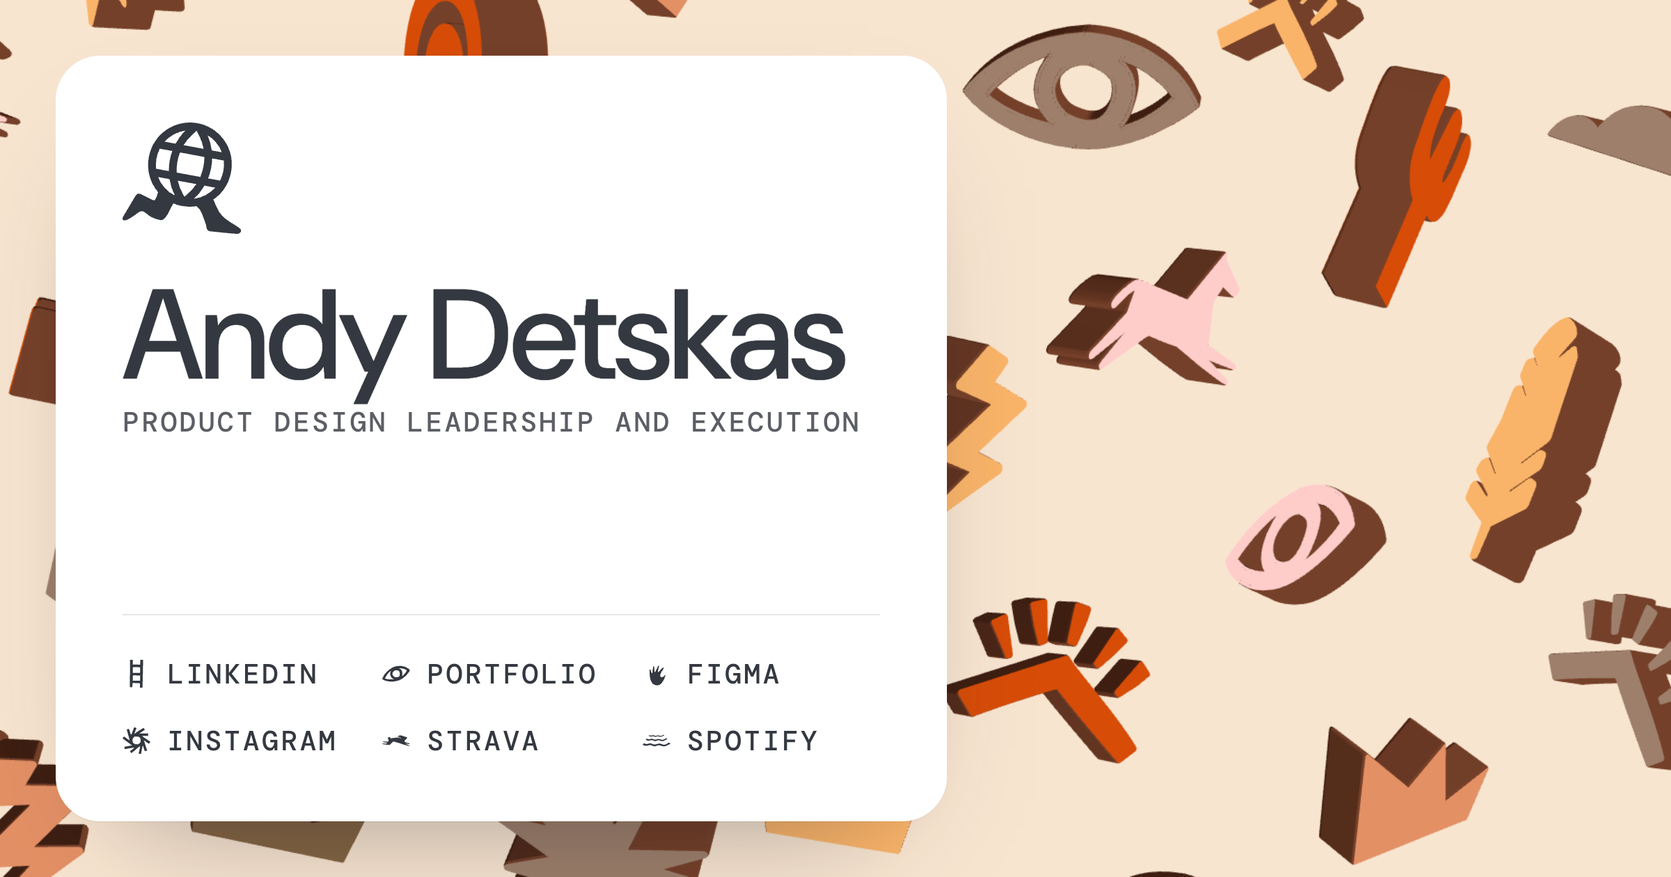
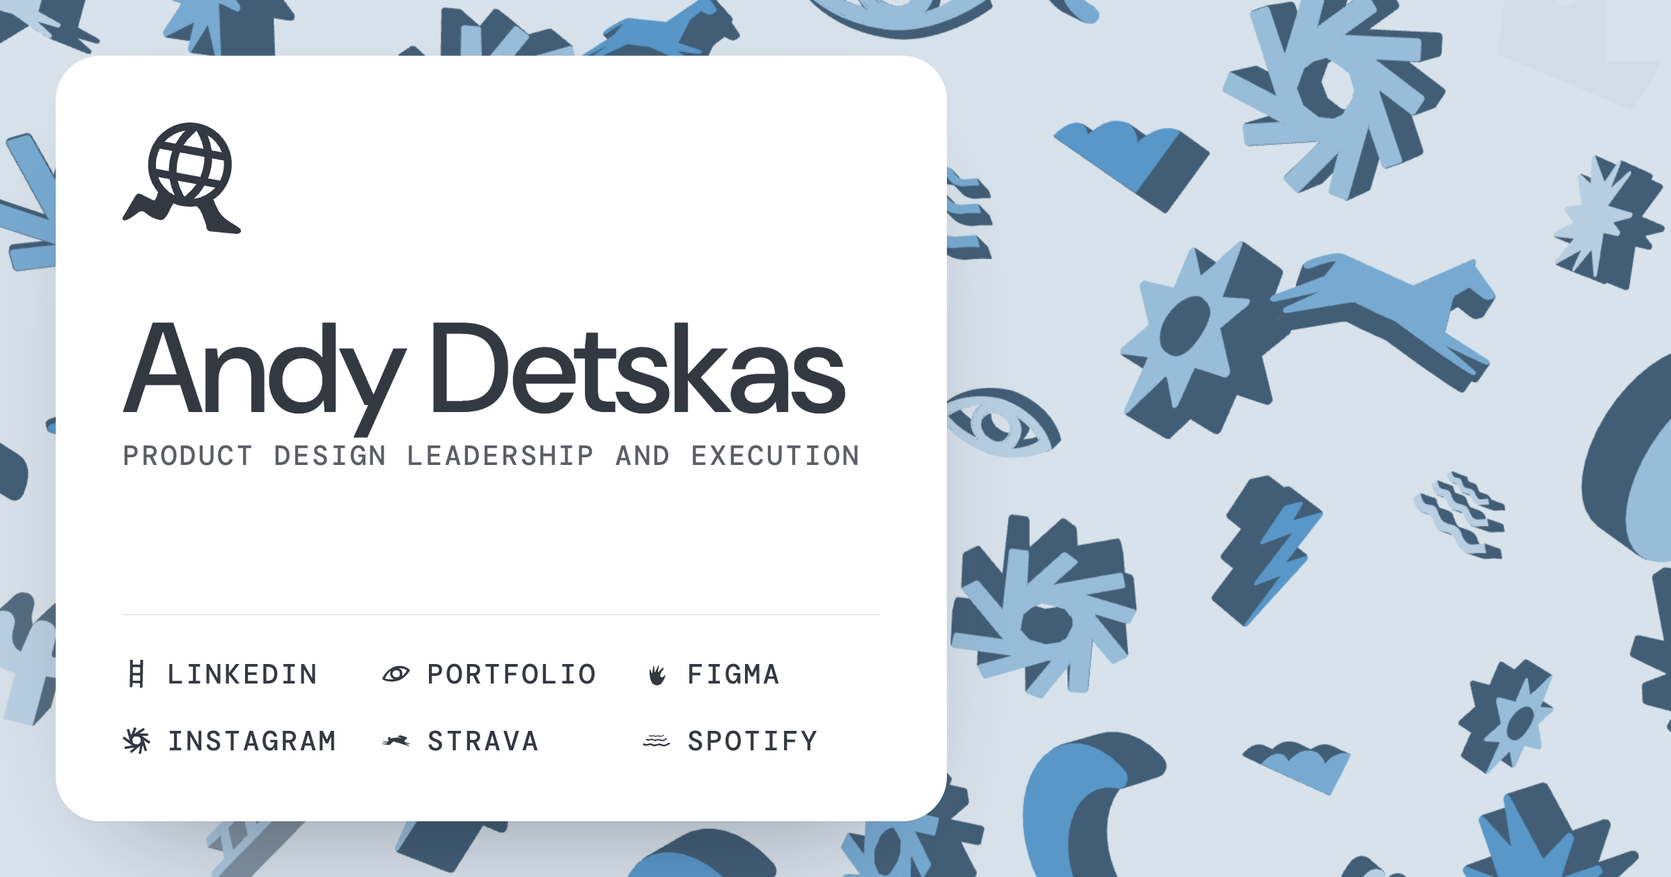
Scene: Glyphs · Indigo default, Indigo Night dark mode, edge fade, readable faces
- Default scene is now Glyphs · Indigo (Taos Indigo ramp on Indigo 200, checker,
  slow drift, flat lighting, 13 icons). The call page background matches.
- Dark mode uses the new Indigo Night palette (same faces on Black 300).
- The glyph wrap is centered on the visible area, so the seam stays off screen,
  and glyphs fade into the background near it (uFade/uBg), so nothing pops in.
- Each glyph's face stays within 60° of the camera (eased past 43°), so icons
  never turn edge-on or show their mirrored back.
- Share image re-captured; README perf baseline and notes updated.

diff --git a/src/lib/shape-field/families/glyphs.ts b/src/lib/shape-field/families/glyphs.ts
@@ -13,6 +13,9 @@ const H = 4.2; // half-height of the field
 const W = H * 1.9; // half-width (covers 16:10 plus the composition shift)
 const MAX_FACES = 8;
 const SLOTS = 840; // divisible by 1–8, so slot % colors.length stays evenly spread
+/** Radians. How far a glyph's face may turn from the viewer: freely to the knee, easing to the max. */
+const FACE_KNEE = 0.75; // ~43°
+const FACE_MAX = 1.05; // ~60°
 
 export const GLYPH_NAMES = iconNames;
 
@@ -142,8 +145,9 @@ export const glyphs: Family = {
       return mesh;
     };
 
-    // A glyph that drifts above `top` drops back by `span`.
-    let top = H + 1.2;
+    // The field is periodic in y: a glyph that drifts past the top of the wrap window drops back
+    // by `span`. The window is centered on the middle of the view (view(), from the engine), not on
+    // the origin, since the composition shift and the roll move the view off it.
     let span = 2 * (H + 1.2);
 
     if (layout === 'scatter') {
@@ -175,7 +179,6 @@ export const glyphs: Family = {
       const checker = layout === 'checker';
       const { sx, sy, cols, rows } = lattice(layout, count);
       span = rows * sy;
-      top = span / 2;
       const nColors = Math.min(pal.colors.length, MAX_FACES);
       const taken = new Map<string, { name: string; color: number }>();
       const key = (c: number, r: number) => `${c},${((r % rows) + rows) % rows}`;
@@ -218,12 +221,44 @@ export const glyphs: Family = {
     }
     assign();
 
+    // Wrap window [lo, lo + span] and the fade at its edges: a glyph fades into the background
+    // over the last `band` before the seam and fades back in after it, so none pops in or out
+    // where the seam crosses a corner of the view (the bottom left, at a 30° roll).
+    const band = Math.min(1.2, Math.max(0.8, span * 0.1));
+    let lo = -span / 2;
+    const wrap = (y: number) => lo + ((((y - lo) % span) + span) % span);
+    const setWindow = (center: number) => {
+      lo = center - span / 2;
+      shared.uFade.value.set(lo, lo + span, band);
+    };
+    setWindow(0);
+
     // Rotation is a pure function of time; the drift and the grow-in are integrated in update().
+    // Readability: the tumble can swing a glyph ±90° and more, and a glyph near the edge of the view
+    // is already seen up to ~30° off-axis, so some turned edge-on (only the side wall showing) or
+    // showed their mirrored back. Measured against the real line of sight to the camera, a face turns
+    // freely up to FACE_KNEE, then eases toward FACE_MAX and never past it.
+    const eye = new THREE.Vector3(0, 0, 10);
+    const normal = new THREE.Vector3();
+    const toEye = new THREE.Vector3();
+    const axis = new THREE.Vector3();
+    const turn = new THREE.Quaternion();
+    const ease = (a: number) => (a <= FACE_KNEE ? a : FACE_KNEE + (FACE_MAX - FACE_KNEE) * Math.tanh((a - FACE_KNEE) / (FACE_MAX - FACE_KNEE)));
     const pose = (it: (typeof items)[number], t: number, tumble: number) => {
       const m = it.mesh;
-      m.rotation.y = it.baseRot * tumble + Math.sin(t * it.spin + it.phase) * 0.9 * tumble;
-      m.rotation.x = Math.sin(t * it.wob + it.phase) * 0.35 * tumble;
-      m.rotation.z = Math.sin(t * 0.13 + it.phase) * 0.12 * tumble;
+      m.rotation.set(
+        Math.sin(t * it.wob + it.phase) * 0.35 * tumble,
+        it.baseRot * tumble + Math.sin(t * it.spin + it.phase) * 0.9 * tumble,
+        Math.sin(t * 0.13 + it.phase) * 0.12 * tumble,
+      );
+      normal.set(0, 0, 1).applyQuaternion(m.quaternion);
+      toEye.subVectors(eye, m.position).normalize();
+      const a = normal.angleTo(toEye);
+      if (a <= FACE_KNEE) return;
+      axis.crossVectors(normal, toEye);
+      if (axis.lengthSq() < 1e-10) axis.set(0, 1, 0); // facing straight away: turn about the vertical
+      turn.setFromAxisAngle(axis.normalize(), a - ease(a));
+      m.quaternion.premultiply(turn);
     };
 
     return {
@@ -241,9 +276,8 @@ export const glyphs: Family = {
           // Grow in after a stagger; when the scene is paused (speed 0), size changes apply at once.
           if (dt === 0) m.scale.setScalar(goal);
           else if (t > it.delay) m.scale.setScalar(m.scale.x + (goal - m.scale.x) * k);
+          m.position.y = wrap(m.position.y + dt * it.rise);
           pose(it, t, tumble);
-          m.position.y += dt * it.rise;
-          if (m.position.y > top) m.position.y -= span;
         }
         const c = live.contrast ?? 0.35;
         if (c !== contrast) {
@@ -261,10 +295,16 @@ export const glyphs: Family = {
           const m = it.mesh;
           const goal = it.size * sizeMul;
           m.scale.setScalar(t > it.delay ? goal - (goal - 0.001) * Math.exp(-3.5 * (t - it.delay)) : 0.001);
-          const y = it.y0 + t * it.rise;
-          m.position.y = y > top ? y - span * Math.ceil((y - top) / span) : y;
+          m.position.y = wrap(it.y0 + t * it.rise);
           pose(it, t, tumble);
         }
+      },
+      view(_x, y, camera) {
+        if (camera) eye.copy(camera);
+        if (Math.abs(y - (lo + span / 2)) < 1e-4) return;
+        setWindow(y);
+        // Re-wrap now, so a resize doesn't leave a frame with the old window.
+        for (const it of items) it.mesh.position.y = wrap(it.mesh.position.y);
       },
       setPalette(p) {
         pal = p;

diff --git a/src/lib/presets.ts b/src/lib/presets.ts
@@ -179,46 +179,44 @@ export const presets: Preset[] = [
     sceneAccent: false,
   },
   // ── Glyphs: extruded Taos icons. colors = face colors (any number), extrusion = side walls
-  // Andy's pick (2026-11-05, second round): Adobe palette, loose checker layout, larger glyphs,
-  // no depth spread, 16 of the 21 icons.
+  // Andy's pick (third round): the Indigo palette (Taos Indigo 600 → 300 faces, dark Indigo 300
+  // walls, on Indigo 200), checker layout, slow drift, flat lighting (contrast 0), 13 of the 21 icons.
+  // Before this: Adobe palette, speed 1, contrast 0.74, 16 icons (git history has the exact values).
   {
     id: 'glyphs-color',
-    name: 'Glyphs · Adobe',
+    name: 'Glyphs · Indigo',
     family: 'glyphs',
     tone: 'color',
-    paletteId: 'adobe',
+    paletteId: 'indigo',
     palette: {
-      bg: '#F8E5D0',
-      extrusion: '#754029',
-      colors: ['#E49065', '#D74C07', '#9D7F6B', '#836442', '#FECDCA', '#FAB469'],
+      bg: L('indigo', '200'),
+      extrusion: D('indigo', '300'),
+      colors: [L('indigo', '600'), L('indigo', '500'), L('indigo', '400'), L('indigo', '300')],
     },
     params: {
-      density: 0.63,
-      tilt: 20,
-      light: 40,
-      speed: 1,
-      scale: 1.34,
-      seed: 5,
-      tint: 0.85,
-      size: 1.44,
-      depth: 1.45,
+      density: 0.65,
+      tilt: 30,
+      light: 100,
+      speed: 0.35,
+      scale: 1.13,
+      seed: 156,
+      tint: 0,
+      size: 1.29,
+      depth: 1.7,
       spread: 0,
-      tumble: 1,
-      contrast: 0.74,
+      tumble: 1.19,
+      contrast: 0,
       layout: 'checker',
-      jitter: 0.79,
+      jitter: 0.5,
     },
     card: { mode: 'light', radius: 32 },
     sceneAccent: true,
     glyphs: [
-      'alpenglow',
       'cactus',
       'cloud',
       'compass',
       'crown',
       'eye',
-      'feather',
-      'fox',
       'hank',
       'ladder',
       'lightning',
@@ -281,8 +279,7 @@ export const glyphPalettes: NamedPalette[] = [
   { id: 'earth', name: 'Earth', kind: 'earth', mode: 'light', palette: { bg: L('saddle', '300'), extrusion: D('fire', '200'), colors: [L('saddle', '600'), L('fire', '500'), D('alpenglow', '400'), D('fire', '300'), D('verde', '400'), D('sun', '500')] } },
   { id: 'adobe', name: 'Adobe', kind: 'earth', mode: 'light', palette: { bg: L('alpenglow', '200'), extrusion: D('fire', '300'), colors: [L('fire', '400'), L('fire', '600'), L('saddle', '600'), D('alpenglow', '300'), L('coral', '600'), L('alpenglow', '500')] } },
   { id: 'sage', name: 'Sage & Clay', kind: 'earth', mode: 'light', palette: { bg: L('saddle', '200'), extrusion: D('verde', '200'), colors: [L('verde', '500'), D('verde', '400'), L('saddle', '500'), L('fire', '400'), D('sun', '400')] } },
-  // The site's dark theme (Display settings → Theme): Adobe's warm glyphs on True Black, behind the
-  // Style Guide's dark card (Shadow 600).
+  // The light scene's dark counterpart, from Adobe's days as the default; Indigo Night replaced it.
   { id: 'adobe-night', name: 'Adobe Night', kind: 'earth', mode: 'dark', palette: { bg: D('black', '300'), extrusion: D('black', '500'), colors: [D('fire', '600'), D('alpenglow', '600'), D('alpenglow', '400'), D('fire', '400'), D('coral', '500'), D('saddle', '600')] } },
   { id: 'mesa', name: 'Mesa Night', kind: 'earth', mode: 'light', palette: { bg: D('fire', '200'), extrusion: L('black', '600'), colors: [L('sun', '400'), L('alpenglow', '600'), L('fire', '500'), L('saddle', '400'), L('verde', '300')] } },
   // Mono
@@ -291,6 +288,10 @@ export const glyphPalettes: NamedPalette[] = [
   { id: 'ink', name: 'Ink', kind: 'mono', mode: 'dark', palette: { bg: D('black', '300'), extrusion: D('black', '500'), colors: [L('saddle', '200'), L('shadow', '300'), L('shadow', '500')] } },
   { id: 'fire', name: 'Fire', kind: 'mono', mode: 'light', palette: { bg: L('fire', '200'), extrusion: D('fire', '300'), colors: [L('fire', '600'), L('fire', '500'), L('fire', '400'), L('fire', '300')] } },
   { id: 'indigo', name: 'Indigo', kind: 'mono', mode: 'light', palette: { bg: L('indigo', '200'), extrusion: D('indigo', '300'), colors: [L('indigo', '600'), L('indigo', '500'), L('indigo', '400'), L('indigo', '300')] } },
+  // The site's dark theme (Display settings → Theme), the Indigo scene at night: the same four
+  // faces, on the dark page color (True Black 300) with near-black walls, behind the Style Guide's
+  // dark card (Shadow 600).
+  { id: 'indigo-night', name: 'Indigo Night', kind: 'mono', mode: 'dark', palette: { bg: D('black', '300'), extrusion: D('black', '500'), colors: [L('indigo', '600'), L('indigo', '500'), L('indigo', '400'), L('indigo', '300')] } },
   { id: 'verde', name: 'Verde', kind: 'mono', mode: 'light', palette: { bg: L('verde', '200'), extrusion: D('verde', '200'), colors: [L('verde', '600'), L('verde', '500'), L('verde', '400'), L('verde', '300')] } },
   { id: 'lavender', name: 'Lavender', kind: 'mono', mode: 'light', palette: { bg: L('lavender', '200'), extrusion: D('lavender', '300'), colors: [L('lavender', '600'), L('lavender', '500'), L('lavender', '400'), L('lavender', '300')] } },
 ];

diff --git a/src/lib/shape-field/facet.ts b/src/lib/shape-field/facet.ts
@@ -20,19 +20,28 @@ export interface FacetOptions {
 
 const vertexShader = /* glsl */ `
   attribute float aSet;
+  uniform vec3 uFade;
   varying vec3 vNWorld;
   varying vec3 vNLocal;
   varying float vSet;
+  varying float vFade;
   void main() {
     vec4 p = vec4(position, 1.0);
     vec3 n = normal;
+    vec4 center = vec4(0.0, 0.0, 0.0, 1.0);
     #ifdef USE_INSTANCING
       p = instanceMatrix * p;
       n = mat3(instanceMatrix) * n;
+      center = instanceMatrix * center;
     #endif
     vNLocal = normal;
     vNWorld = normalize(mat3(modelMatrix) * n);
     vSet = aSet;
+    // Edge fade, by the form's center so the whole form fades as one.
+    float cy = (modelMatrix * center).y;
+    vFade = uFade.z > 0.0
+      ? smoothstep(uFade.x, uFade.x + uFade.z, cy) * (1.0 - smoothstep(uFade.y - uFade.z, uFade.y, cy))
+      : 1.0;
     gl_Position = projectionMatrix * modelViewMatrix * p;
   }
 `;
@@ -46,9 +55,11 @@ const fragmentShader = /* glsl */ `
   uniform vec3 uAccent;
   uniform float uAccentAmt;
   uniform float uPrimaryLocal;
+  uniform vec3 uBg;
   varying vec3 vNWorld;
   varying vec3 vNLocal;
   varying float vSet;
+  varying float vFade;
   void main() {
     vec3 nW = normalize(vNWorld);
     float primary = uPrimaryLocal > 0.5 ? abs(normalize(vNLocal).z) : nW.y;
@@ -61,6 +72,7 @@ const fragmentShader = /* glsl */ `
     vec3 side = mix(uShade, uLit, smoothstep(-0.3, 0.3, s));
 
     vec3 col = mix(side, top, smoothstep(0.55, 0.72, primary));
+    col = mix(uBg, col, vFade);
     gl_FragColor = vec4(col, 1.0);
     #include <colorspace_fragment>
   }
@@ -90,6 +102,8 @@ export class Facet {
         uLightDir: shared.uLightDir,
         uAccent: shared.uAccent,
         uAccentAmt: shared.uAccentAmt,
+        uBg: shared.uBg,
+        uFade: shared.uFade,
       },
     });
     // Meshes without an aSet attribute read 0 (no alternate color).

diff --git a/src/lib/shape-field/index.ts b/src/lib/shape-field/index.ts
@@ -77,6 +77,8 @@ export function createShapeField(canvas: HTMLCanvasElement, initial: Preset, opt
     uAccent: { value: accent.value },
     uAccentAmt: { value: 0 },
     uTime: { value: 0 },
+    uBg: { value: bg.value },
+    uFade: { value: new THREE.Vector3() },
   };
   let accentTarget = 0;
 
@@ -109,8 +111,10 @@ export function createShapeField(canvas: HTMLCanvasElement, initial: Preset, opt
       inst.dispose();
     }
     family = families[preset.family];
+    shared.uFade.value.set(0, 0, 0); // off unless the new family turns it on
     inst = family.build({ params: preset.params, palette: preset.palette, rng: mulberry32(preset.params.seed), shared, glyphs: preset.glyphs });
     scene.add(inst.root);
+    layoutCamera(); // tells the new field where the view is before its first update
     t = 0;
     if (reduced) {
       // Static frame: jump straight to a settled state.
@@ -154,6 +158,11 @@ export function createShapeField(canvas: HTMLCanvasElement, initial: Preset, opt
     camera.rotateZ(tilt);
     camera.setViewOffset(width, height, -focusX * width, focusY * height, width, height);
     camera.updateProjectionMatrix();
+    // The middle of what's on screen, in world space: the view offset moves it off the origin,
+    // and the roll turns that offset. A wrapping field centers its wrap here.
+    const vx = -2 * focusX * halfH * aspect;
+    const vy = -2 * focusY * halfH;
+    inst.view?.(vx * Math.cos(tilt) - vy * Math.sin(tilt), vx * Math.sin(tilt) + vy * Math.cos(tilt), camera.position);
   }
 
   function resize() {

diff --git a/src/lib/shape-field/types.ts b/src/lib/shape-field/types.ts
@@ -8,6 +8,13 @@ export interface SharedUniforms {
   uAccent: THREE.IUniform<THREE.Color>;
   uAccentAmt: THREE.IUniform<number>;
   uTime: THREE.IUniform<number>;
+  /** The scene background (the same tweened color), so forms can fade into it. */
+  uBg: THREE.IUniform<THREE.Color>;
+  /**
+   * Edge fade in world y: (bottom, top, band). A form whose center is within `band` of either
+   * edge mixes toward uBg, reaching it at the edge. band 0 = off. Set by families that wrap.
+   */
+  uFade: THREE.IUniform<THREE.Vector3>;
 }
 
 export interface FamilyContext {
@@ -32,6 +39,13 @@ export interface FamilyInstance {
   update(t: number, dt: number, dtReal: number, params: SceneParams): void;
   /** Optional: jump straight to scene time t (as if update() had run from 0). Without it the engine steps there. */
   seek?(t: number, params: SceneParams): void;
+  /**
+   * Optional: where the middle of the visible area sits in world space (x, y at z = 0), and where
+   * the camera is. The middle moves with the composition shift (setFocus), the roll and the aspect.
+   * A field that wraps centers its wrap here, so the seam stays off screen; glyphs use the camera
+   * to keep their faces readable.
+   */
+  view?(x: number, y: number, camera?: THREE.Vector3): void;
   setPalette(palette: ScenePalette): void;
   dispose(): void;
 }

diff --git a/src/lib/display-settings.ts b/src/lib/display-settings.ts
@@ -8,8 +8,8 @@ export const DISPLAY_KEY = 'ad_display';
 
 import { defaultPreset, glyphPalettes } from './presets';
 
-/** The scene in dark mode: Adobe Night (presets.ts), the light Adobe scene's counterpart. */
-export const DARK_PALETTE = glyphPalettes.find((p) => p.id === 'adobe-night')!.palette;
+/** The scene in dark mode: Indigo Night (presets.ts), the light Indigo scene's counterpart. */
+export const DARK_PALETTE = glyphPalettes.find((p) => p.id === 'indigo-night')!.palette;
 export const LIGHT_PALETTE = defaultPreset.palette;
 
 export interface DisplaySettings {

diff --git a/README.md b/README.md
@@ -41,10 +41,10 @@ Pages talk to the scene through `bento:preset` (switch concept). `bento:accent` 
 
 **Start-up.** Three.js loads after first paint. `prepareShapeField(preset)` then extrudes the glyphs one per task, and the engine compiles its shaders with `compileAsync` before the first frame. That keeps the main thread free for taps while the scene loads.
 
-Baseline (default checker preset):
-- Mid-range phone (4x CPU): the longest task is about 55 ms (it was 285 ms before the split). The scene appears about 2.1 s after opening on slow 4G.
-- Low-end phone (6x CPU): the longest task is about 85 ms (was 427 ms).
-- While it runs: about 0.4 ms of JS per frame, a steady 60 fps, 12 draw calls and 66k triangles per frame on a phone. The camera only sees about a dozen of the ~90 glyphs, and the rest are culled.
+Baseline (default preset, Glyphs · Indigo, checker):
+- Mid-range phone (4x CPU): the longest task is about 70 ms (it was 285 ms before the split). The scene appears about 2.2 s after opening on slow 4G.
+- Low-end phone (6x CPU): the longest task is about 90 ms (was 427 ms).
+- While it runs: under 1 ms of JS per frame, a steady 60 fps, 14 draw calls and 46k triangles per frame on a phone. The camera only sees about a dozen of the ~90 glyphs, and the rest are culled.
 
 **Touch.** Taps get no tooltip and no row dimming. Hover styles sit behind `@media (hover: hover)`.
 
@@ -76,7 +76,7 @@ The hero is the site's menu (`HeroMenu.astro`): the headline, then Selected work
 - **Techniques articles (`/site/techniques/<slug>/`).** The four live articles (Integrity Compass, Vibeframing, Design Dojo, Haptic patterns), ported from the Framer CMS as Markdown in `src/content/techniques/` and rendered by `pages/site/techniques/[slug].astro` in the closer-look shell (eyebrow "Techniques", morphing out of the Techniques card). Front matter holds the short title, the original long title as the subtitle, the description, the panel icon and the hero image; images live in `public/site/techniques/<slug>/`. No dates. The Techniques card and panel link here, same tab.
 - **Old Framer URLs keep working.** `/about`, `/techniques` and the four article slugs are the same paths here, and `/work` forwards to the home (Selected work leads it). Everything else the Framer site had (the passcode case studies, `/contact`, the retired and drafted posts) is listed in `src/lib/legacy-urls.ts` with its new home, and `pages/site/[...legacy].astro` generates a small page at each old path that forwards at once (meta refresh plus `location.replace`, a canonical link, noindex). Folded pages land on their section: Battery on `#battery` in Crushing the Basics, Call-and-Response on `#related` in StackScore. At the cutover the same map works from `/` once `SITE_BASE` changes.
 - **For search and answer engines (`lib/schema.ts`, `lib/site-sections.ts`).** Every page carries one JSON-LD block: the Person (a stable `@id` shared with the bento, profiles in `sameAs`), the WebSite, and what the page is (CollectionPage with an item list for Selected work and Techniques, ProfilePage for About, an Article plus breadcrumbs for each closer look and article). A section's own page makes its open card's title the H1. Closer looks and articles share their own 1200 × 630 image (`npm run og:pages` → `public/site/og/`) as `og:type article`. `/site/llms.txt`, `/site/sitemap.xml`, `/site/robots.txt` and a Markdown copy of each article (`/site/techniques/<slug>.md`) are generated from the same content, drafts left out. **For www:** `npm run build:www` (see Deploy) makes the root-level copy: canonicals, structured data, the sitemap, robots.txt and llms.txt point at www.andydetskas.com, `noindex` is off, and the 404 is at the root.
-- **Dark mode.** Theme is Light by default (Andy's call); in Display settings the visitor can pick Dark, or System setting to follow the device (`prefers-color-scheme`). Dark sets `data-mode="dark"` on `<html>`, so the semantic tokens switch (`tokens.css`; the card is the Taos Style Guide's dark surface, Shadow 600), and the scene and the page behind it switch to Adobe Night (`presets.ts`, also in the lab). `SiteHead` decides before first paint and hands the scene its palette (`window.__scenePalette`), so nothing paints light first; with System setting, it follows the device live. The thumbnails and figures stay as they are, lit panels on the dark cards.
+- **Dark mode.** Theme is Light by default (Andy's call); in Display settings the visitor can pick Dark, or System setting to follow the device (`prefers-color-scheme`). Dark sets `data-mode="dark"` on `<html>`, so the semantic tokens switch (`tokens.css`; the card is the Taos Style Guide's dark surface, Shadow 600), and the scene and the page behind it switch to Indigo Night (`presets.ts`, also in the lab): the light scene's four Indigo face colors on the dark page color (True Black 300), with near-black walls. `SiteHead` decides before first paint and hands the scene its palette (`window.__scenePalette`), so nothing paints light first; with System setting, it follows the device live. The thumbnails and figures stay as they are, lit panels on the dark cards.
 - **"Schedule a call" goes through `/site/call/`** (`CALL_PATH`), a small page that forwards to the booking calendar after it loads, so each click counts as a visit in the site's analytics (Cloudflare Web Analytics after the cutover; no Google Analytics). llms.txt keeps the direct calendar link for agents.
 - **Display settings.** A row on the hero ("Display settings") opens a native modal `<dialog>` (`components/site/DisplaySettings.astro`, rendered once per page beside the Pill): theme (Light, Dark or System setting), text size, a readable typeface (Atkinson Hyperlegible), WCAG 1.4.12 text spacing, high contrast, highlighted links and focus, motion, and the background (animated, paused or off). Four presets set a few options at once and stay adjustable; pressing one again undoes it. Each choice is a data attribute on `<html>` styled at the end of `site.css`; `lib/display-settings.ts` saves the non-defaults in localStorage (`ad_display`), and `SiteHead.astro` applies them before first paint. Motion follows the system's reduced-motion setting unless turned off here (`motionReduced()`), and "Paused" holds the scene with `shapeField.setPaused()`. It avoids the overlay-widget mistakes on purpose: no screen-reader mode, no single-key shortcuts, nothing that claims to make the site compliant. Fixed pixel font sizes are written `calc(Npx * var(--text-scale, 1))` so they scale too.
 - **Widths.** Column one is `--site-col` (`global.css`). The hero card fills it, and the bento's exit narrows its card to it.
@@ -100,6 +100,8 @@ Not verified yet: Safari and in-app browsers. The `fetch()` warm-up and cross-or
 - `colors`: 1–8 face colors. Each glyph takes one at random, spread evenly.
 - `extrusion`: the side walls. The default is **True Black 80%** (Taos True Black 500, `#323131`). `contrast` darkens the shaded side.
 - Hovering a link tints every face toward that link's accent. The strength is set by `tint`.
+- Wrap and edge fade: the field is periodic in y, so a glyph that drifts off the top comes back at the bottom. The wrap is centered on the middle of the view (the engine passes it to `view()`; the composition shift and the roll move it off the origin), and each glyph fades into the background over the last ~1 unit before the seam and back in after it (`uFade` in `facet.ts`). Without that, glyphs popped in at the lower left on desktop.
+- Readable faces: `tumble` can swing a glyph past 90°, and near the edges of the view the camera already sees glyphs up to ~30° off-axis, so some turned edge-on or showed their mirrored back. Measured against the line of sight to the camera, a face now turns freely to about 43° and eases toward 60°, never past it (`FACE_KNEE`/`FACE_MAX` in `glyphs.ts`).
 - `layout`: `scatter` (default; each glyph drifts at its own speed, so the field loosens and clumps over time), `grid` (even rows and columns) or `checker` (alternate squares). Grid and checker drift as one sheet, so the spacing stays even. Neighbours avoid repeating an icon or face color, and `jitter` (0–1) loosens the lattice. Count runs about twice as dense in grid and checker.
 
 ## Deploy
